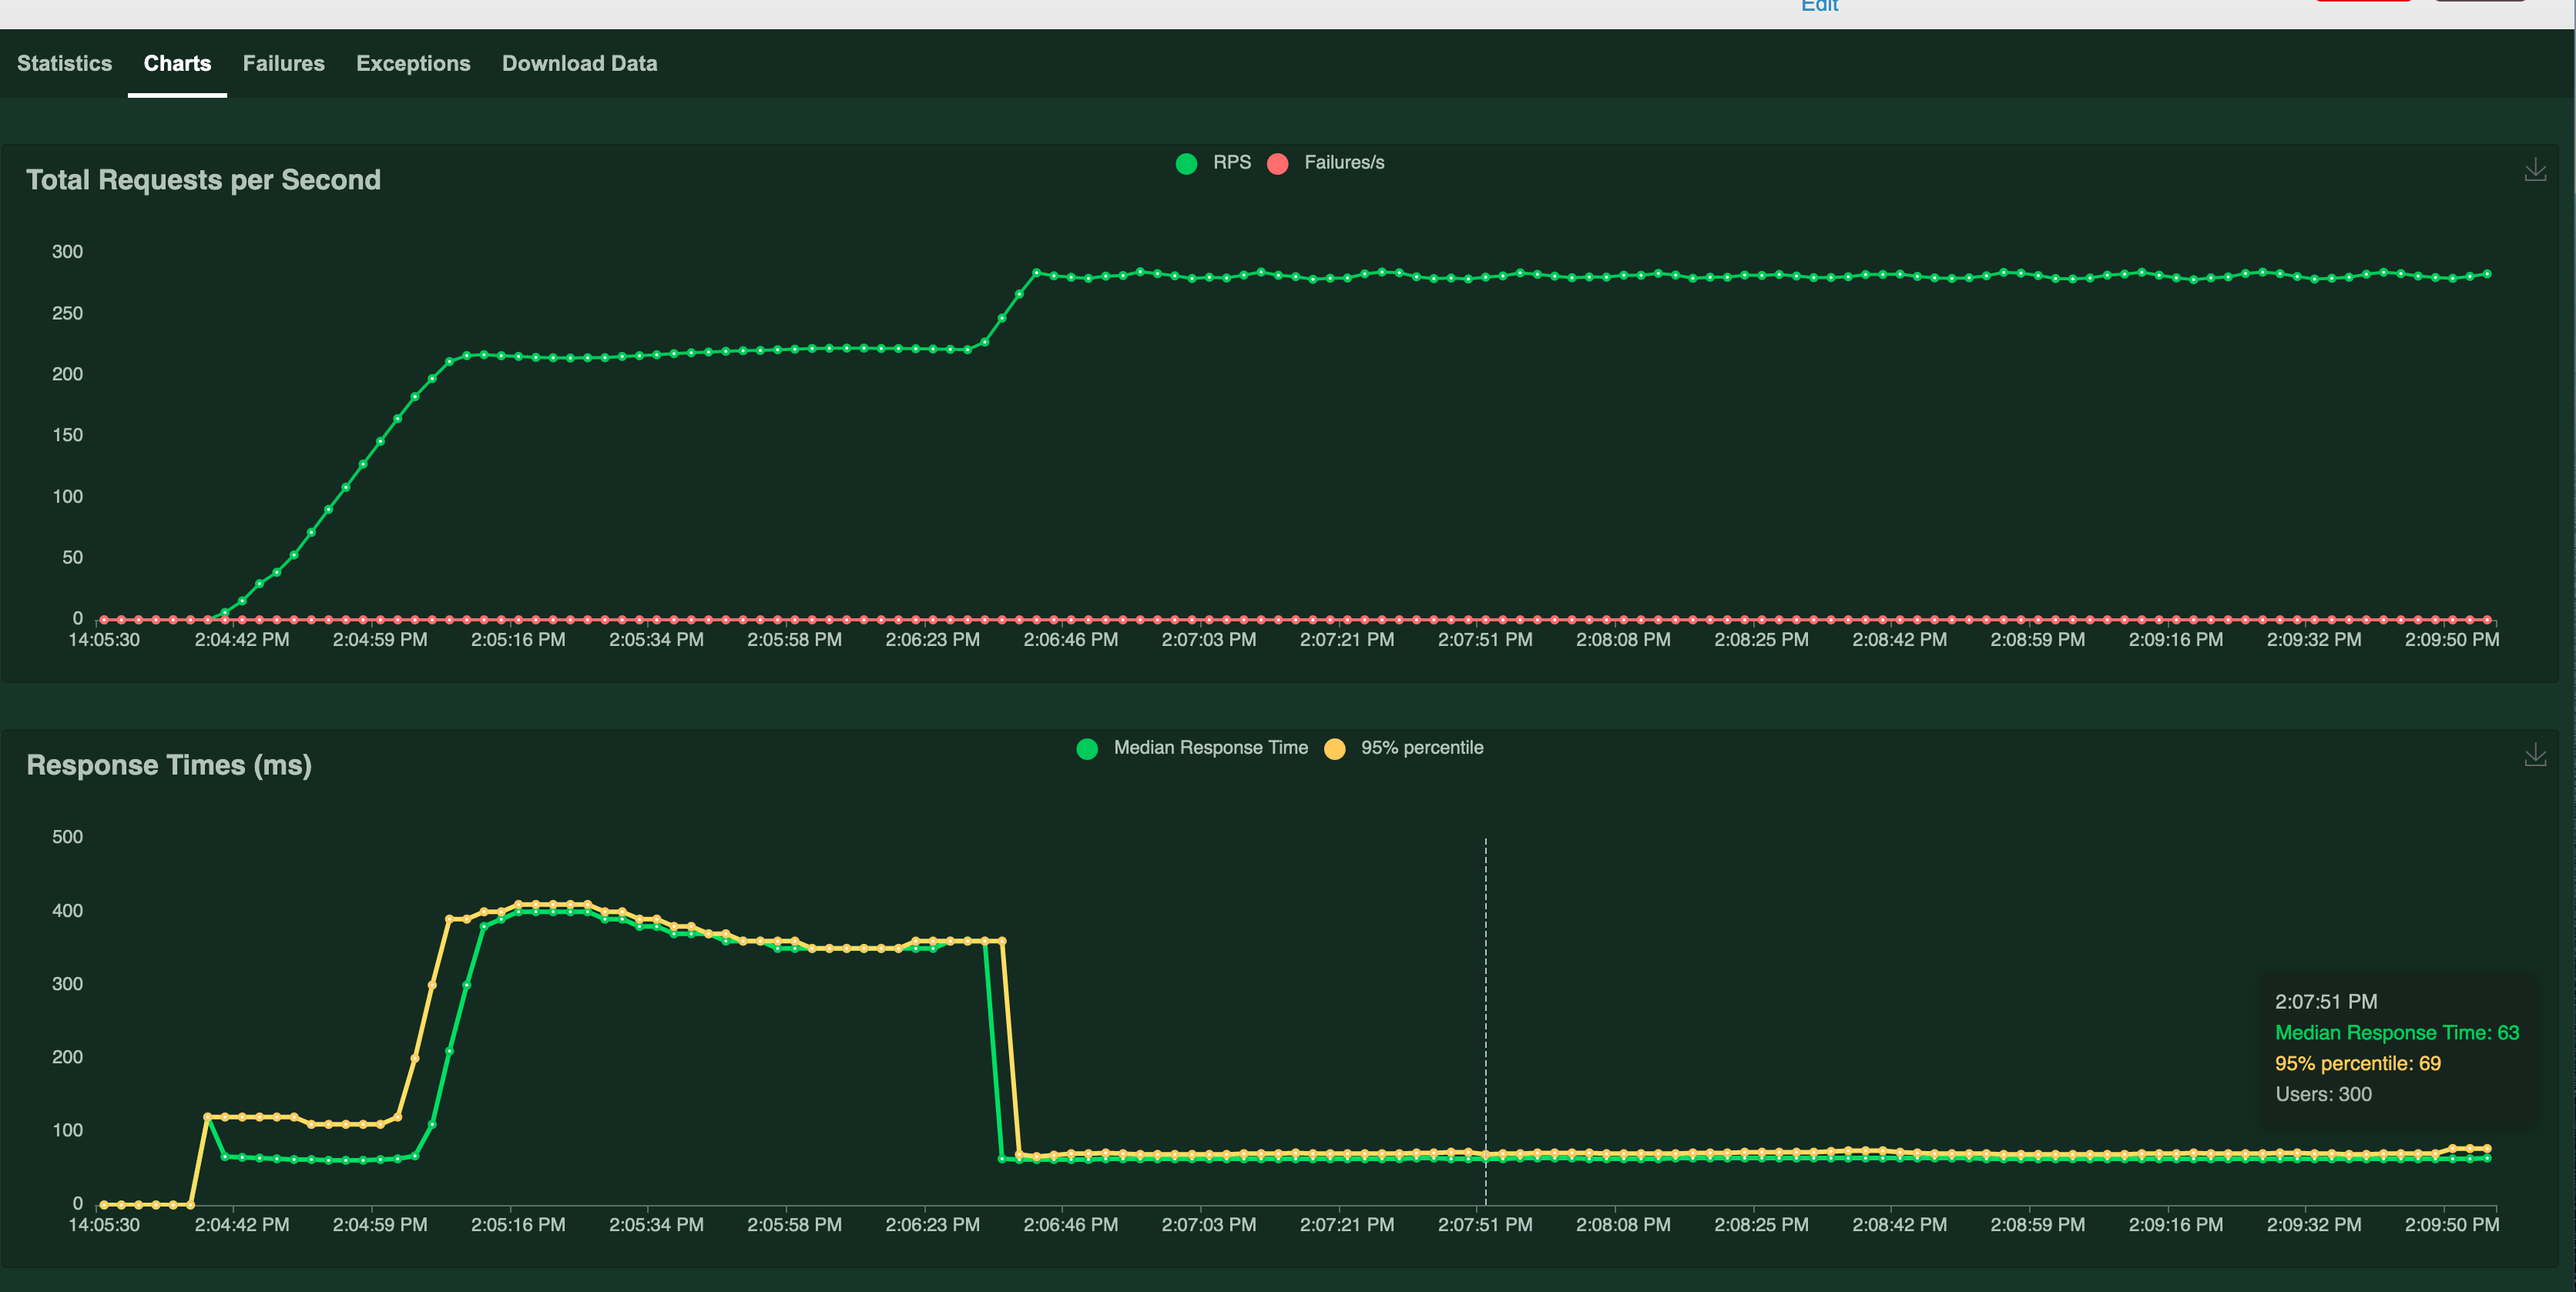
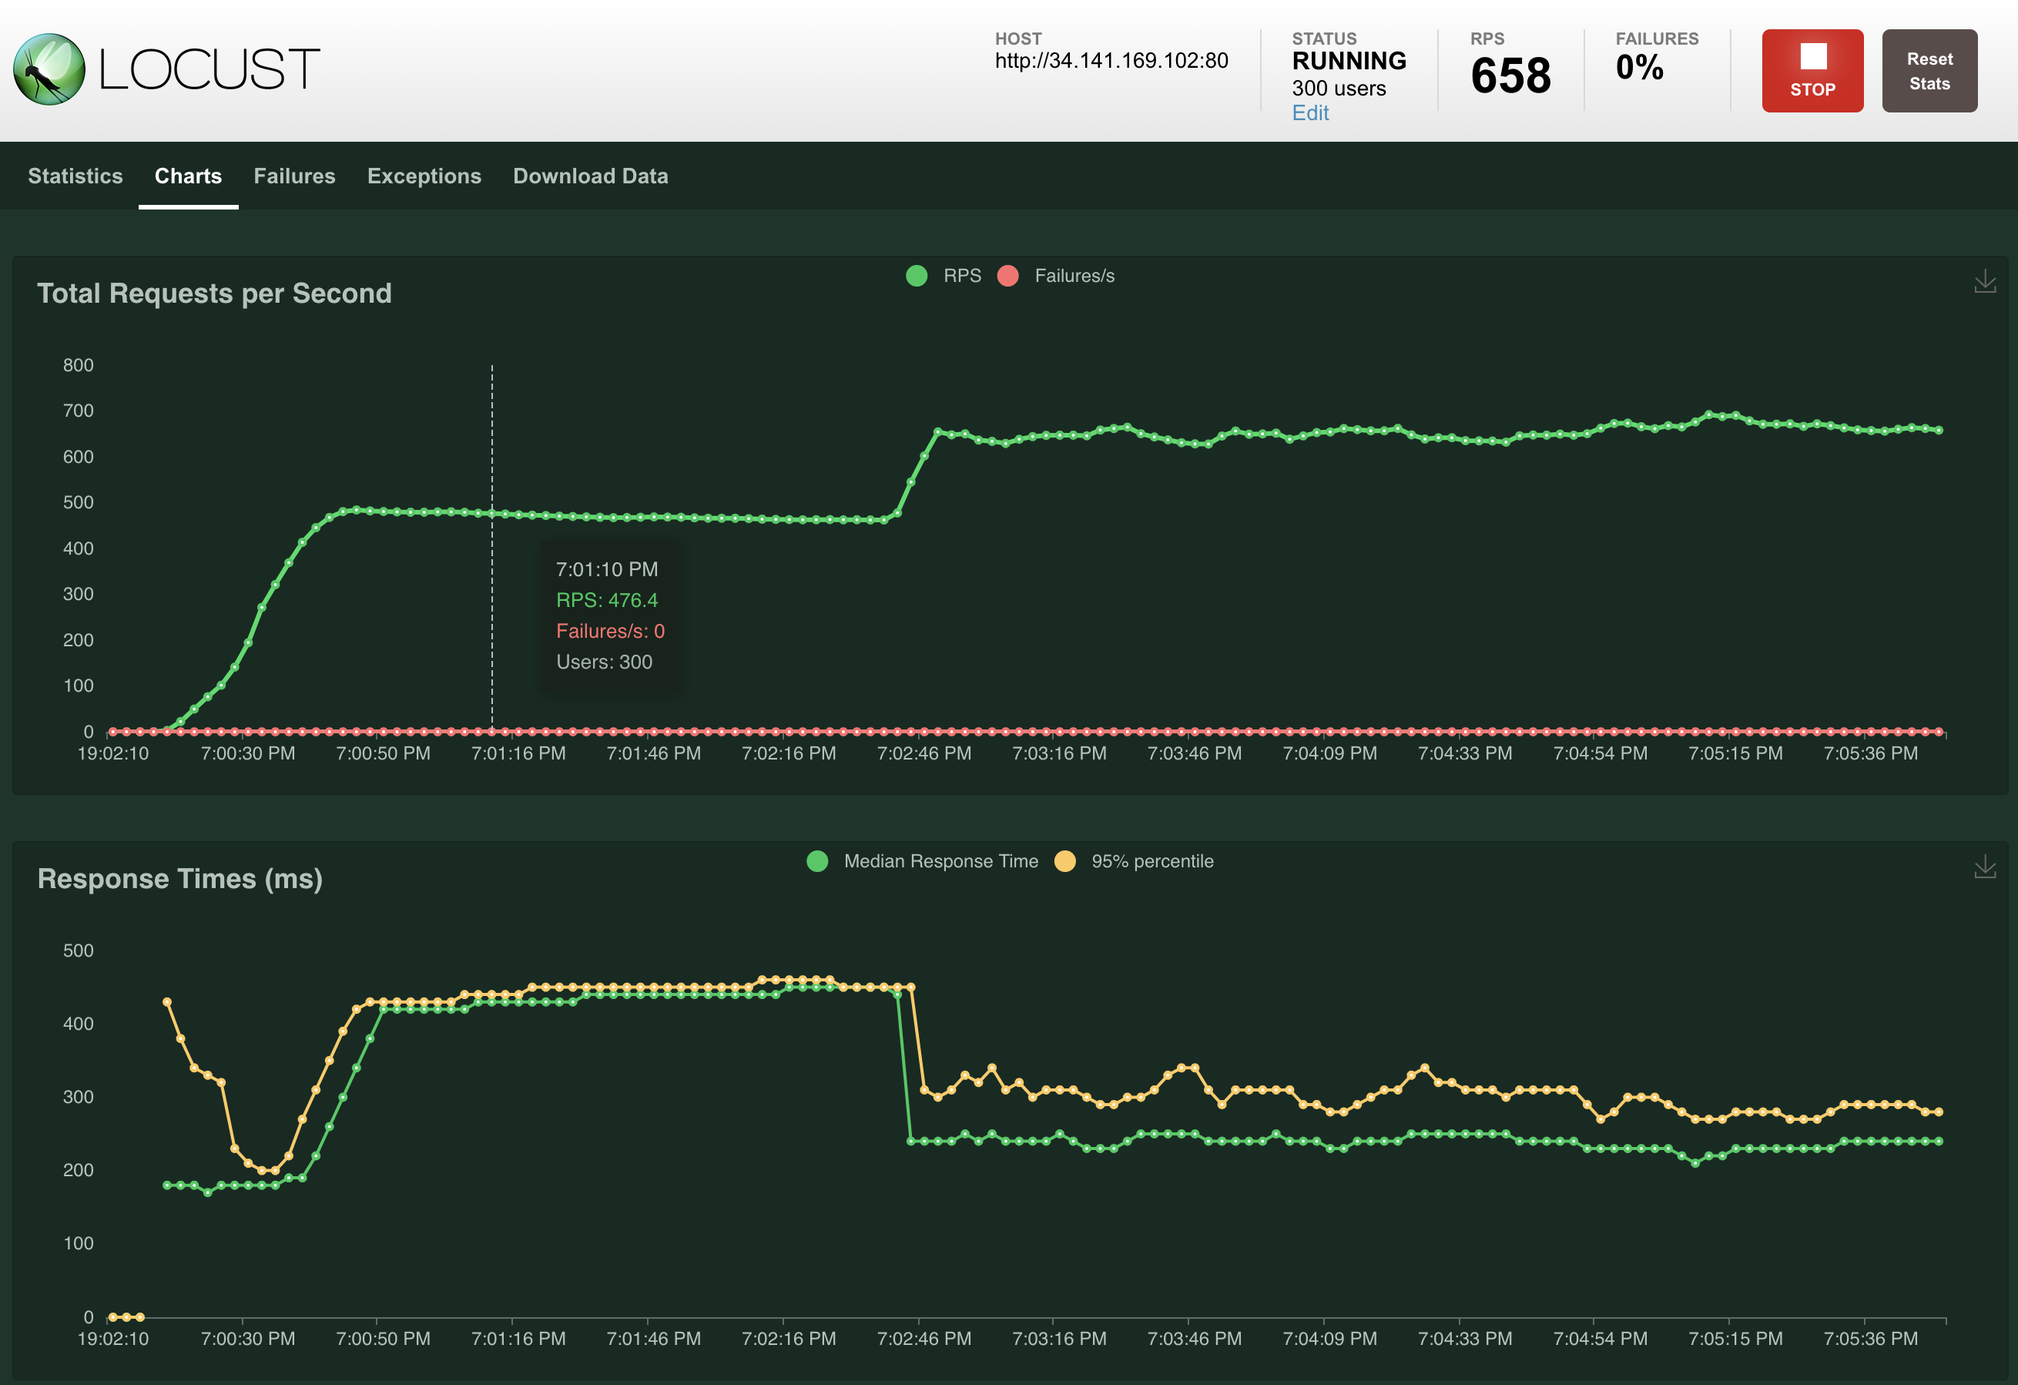
update

diff --git a/deploy/gke-marketplace-app/README.md b/deploy/gke-marketplace-app/README.md
@@ -140,7 +140,7 @@ If User selected deploy Triton to accept HTTP request, please launch [Locust](ht
 locust -f locustfile_bert_large.py -H http://${INGRESS_HOST}:${INGRESS_PORT}
 ```
 
-The client example push about ~300 QPS(Query per second) to Triton Server, and will trigger a auto scale of T4 GPU nodes (We recommend to use T4 and A100[MIG] for inference). From locust UI, we will observer a drop of latency mean and variance for the requests. At the end, after autoscaling, we see the latency stablized at ~60 ms, which is excellent for a model that has 345 million parameters. Since for each node, we use 1T4 + n1-standard-4 instance, and it can handle ~200 QPS, with on-demand price, it is ($0.35+$0.19)=$0.54/hr, that translate to 1.3 million inference per dollar for BERT large model at batch size 1. Further more, with 3 year commitment price, hr rate is ($0.16+$0.08)=$0.24/hr, that translate to 3 million inference per dollar. 
+The client example push about ~650 QPS(Query per second) to Triton Server, and will trigger a auto scale of T4 GPU nodes (We recommend to use T4 and A100[MIG] for inference). From locust UI, we will observer a drop of latency mean and variance for the requests. At the end, after autoscaling, we see the latency stablized at ~200 ms, end to end from US client to europe server, which is excellent for a model that has 345 million parameters. Since for each node, we use 1T4 + n1-standard-4 instance, and it can handle ~450 QPS, with on-demand price, it is ($0.35+$0.19)=$0.54/hr, that translate to 3 million inference per dollar for BERT large model at batch size 1. Further more, with 3 year commitment price, hr rate is ($0.16+$0.08)=$0.24/hr, that translate to 6.75 million inference per dollar. 
 
 ![Locust Client Chart](client.png)
 
